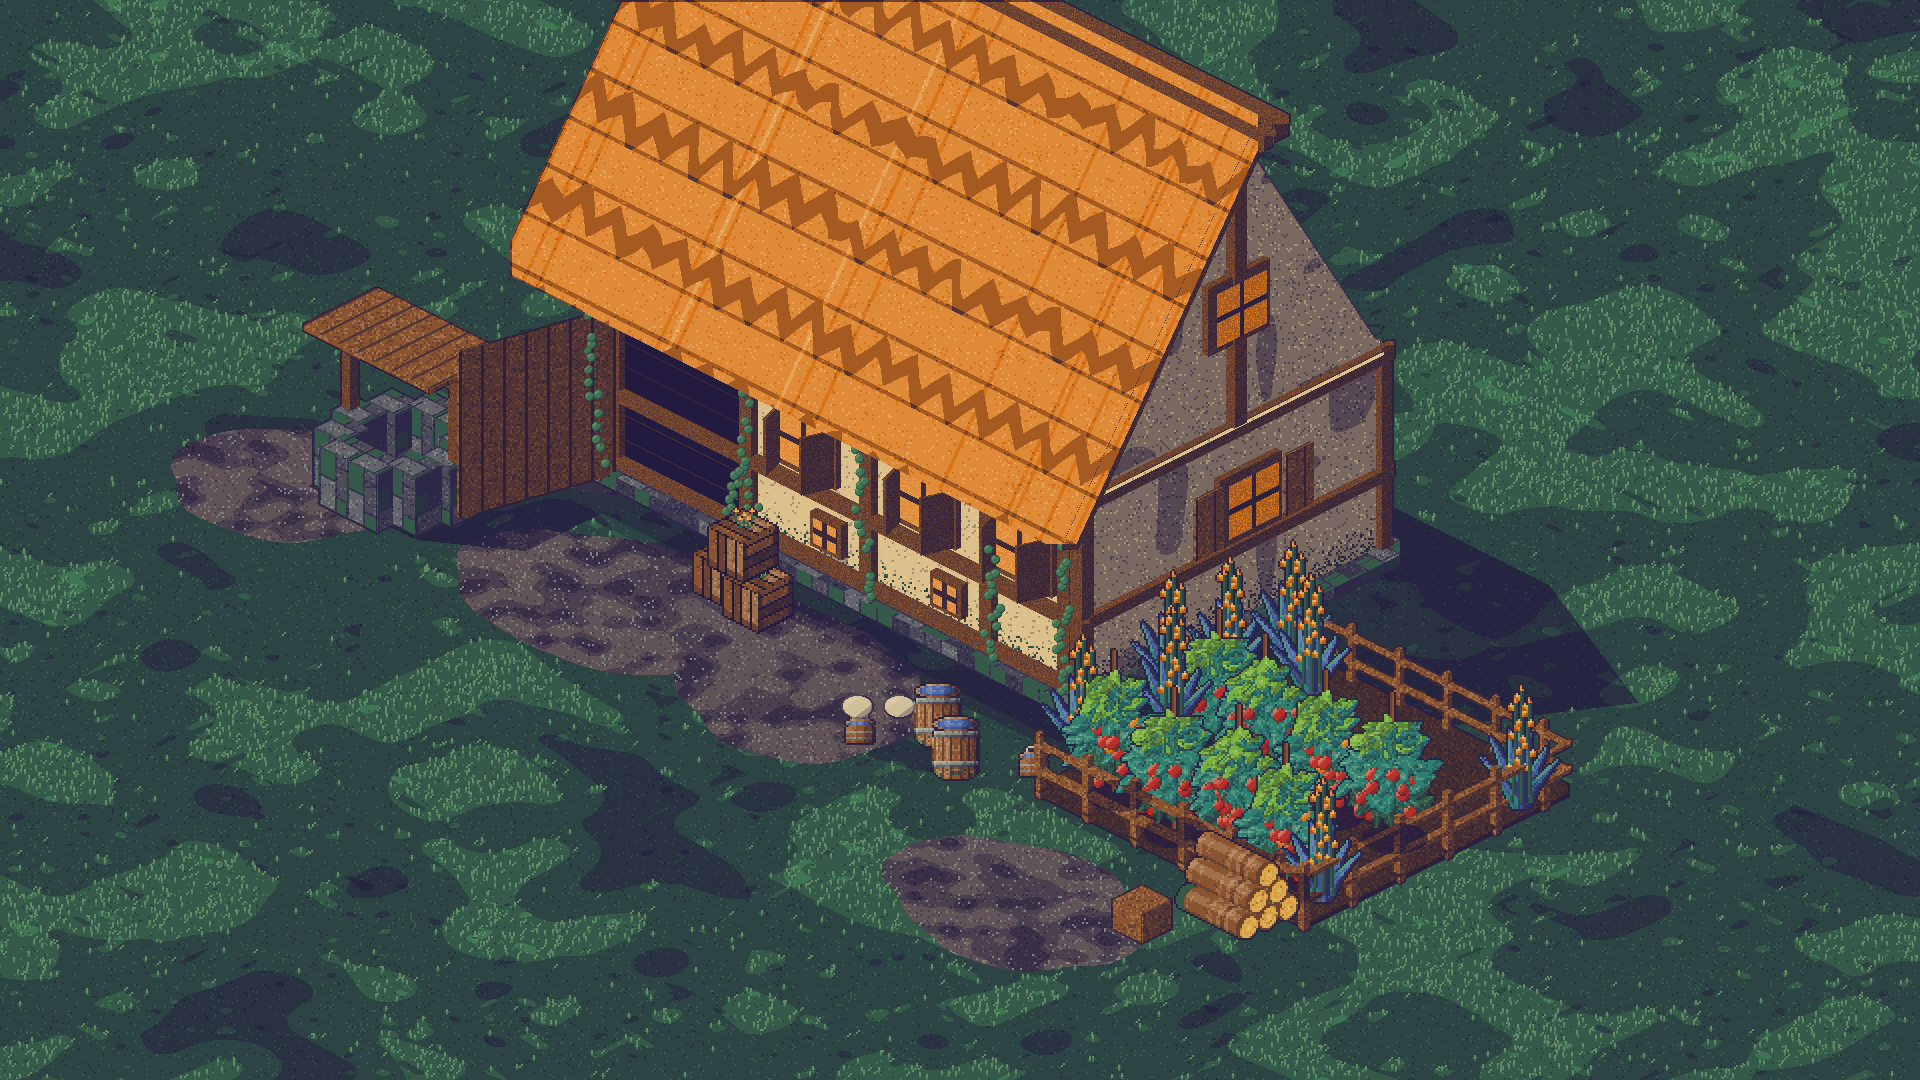
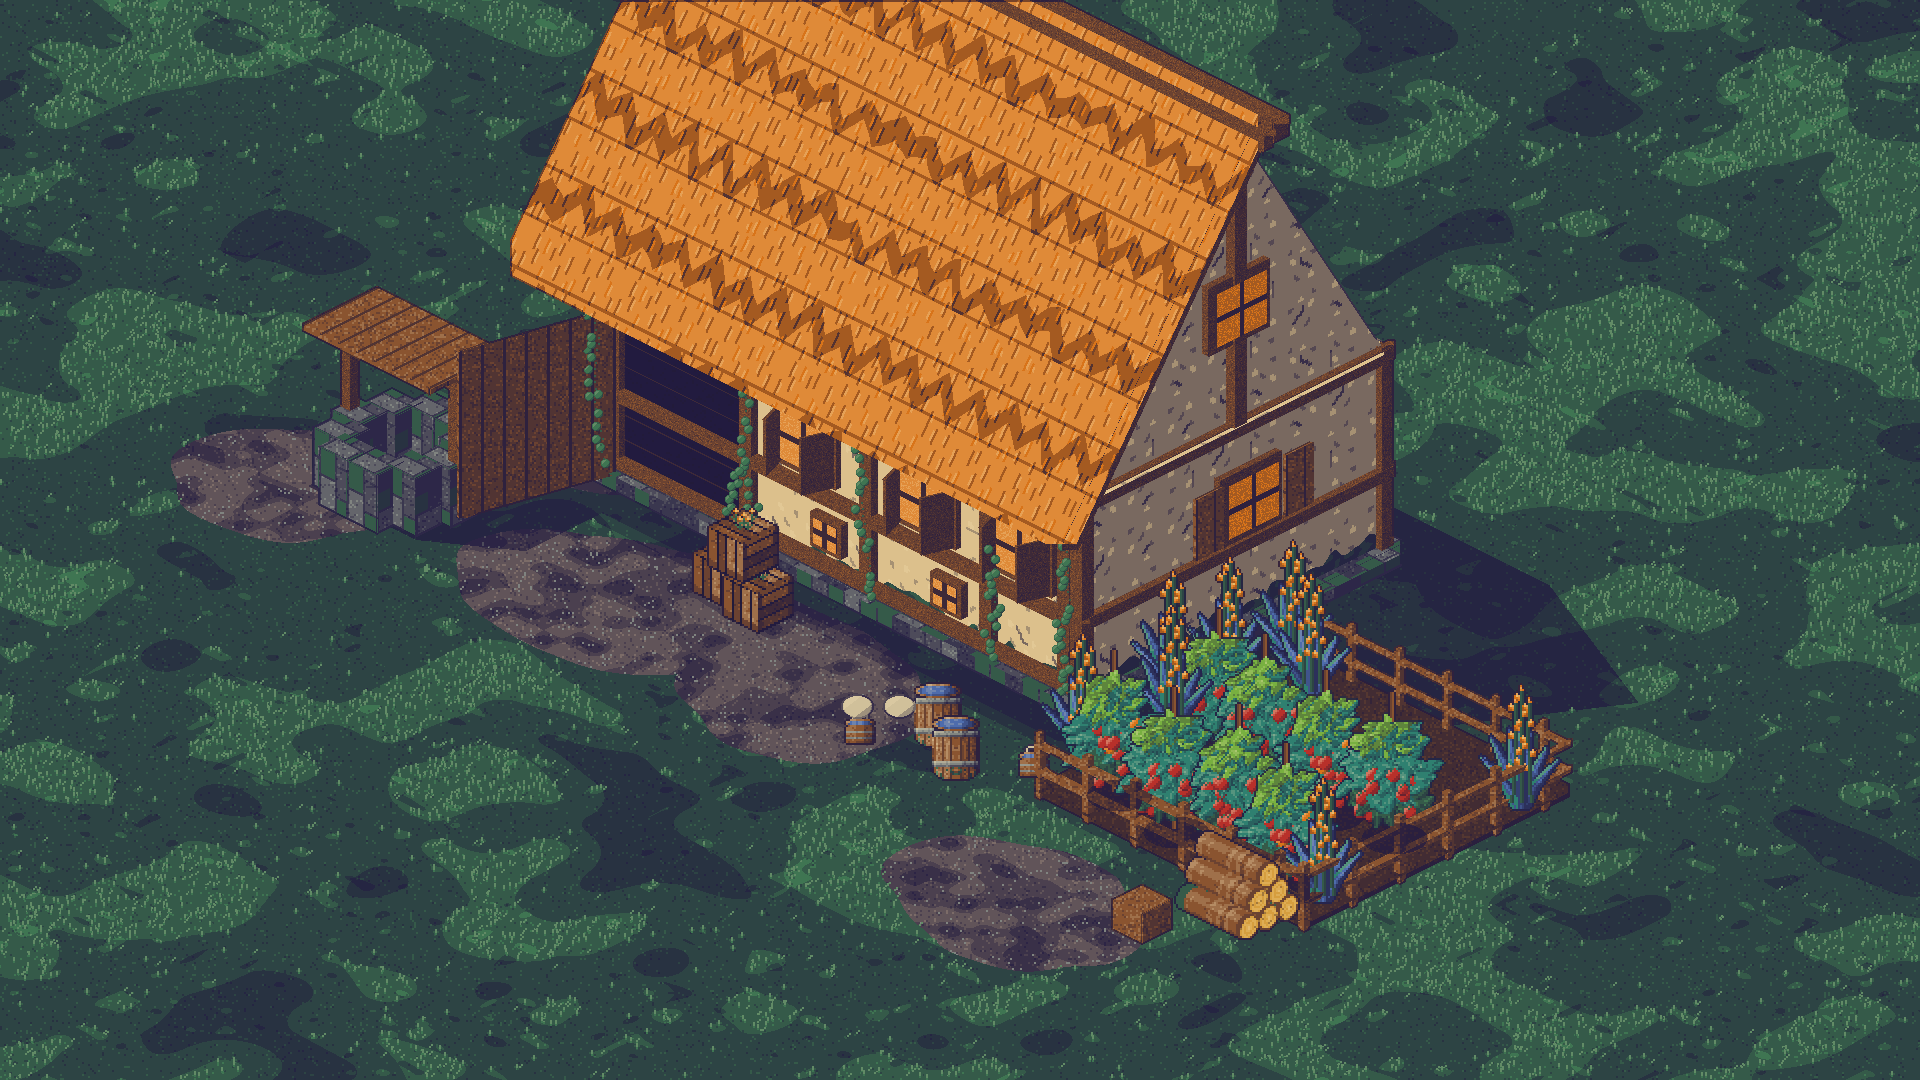
壁と屋根を手描きの模様タイルに変更（乱数の粒をやめる）

Changed region(s): [[0.25, 0.0, 0.7188, 0.5806], [0.5625, 0.5806, 0.5938, 0.6417]]

diff --git a/games/farmhouse/pixel/iso.py b/games/farmhouse/pixel/iso.py
@@ -107,7 +107,30 @@ def T(f, base, spk=None):
         return np.full(x.shape, fi, np.int8), s
     return t
 
-def plaster(x, y, z, u, v, px, py):
+
+# ---- 手描きの模様タイル（tiles.py）を読んで、面に並べる
+def load_tiles(prefix, n):
+    arrs = []
+    for i in range(n):
+        code = pxl.build(os.path.join(HERE, "sprites", f"{prefix}{i}.pxl"))[0]
+        f = np.vectorize(lambda t: FI[t[0]])(code).astype(np.int8); s_ = np.vectorize(lambda t: int(t[1]))(code).astype(np.int8)
+        arrs.append((f, s_))
+    return arrs
+ART = A / max(1, S // 2) / 1.0                                    # 1mあたりの絵のドット数（1ドット=S//2 のドット）
+
+def tile_lookup(tiles, u, v, seed):
+    th, tw = tiles[0][0].shape
+    ix = np.floor(u * ART).astype(np.int64); iy = np.floor(v * ART).astype(np.int64)
+    cx, cy = ix // tw, iy // th
+    var = (h2(cx, cy, seed) * len(tiles)).astype(np.int64) % len(tiles)
+    flip = h2(cx, cy, seed + 7) > .5
+    lx = np.where(flip, tw - 1 - (ix % tw), ix % tw); ly = iy % th
+    F = np.stack([t[0] for t in tiles]); Sh = np.stack([t[1] for t in tiles])
+    return F[var, ly, lx], Sh[var, ly, lx].astype(np.int16)
+
+PLASTER_T = THATCH_T = None
+
+def plaster_old(x, y, z, u, v, px, py):
     s = np.full(x.shape, 4, np.int8); r = h2(px >> 1, py >> 1, 1)
     s = s + (r > .94).astype(np.int8) - (r < .07).astype(np.int8)
     bl = vnoise(u * 1.3, v * 1.3, 5); s = s - (bl > .72).astype(np.int8)
@@ -115,6 +138,16 @@ def plaster(x, y, z, u, v, px, py):
     gr = (z < .75) & (h2(px >> 1, py >> 1, 2) < (1 - z / .75) * .7)           # 足もとの苔と泥
     f = np.where(gr, FI['E'], f); s = np.where(gr, 2 + (h2(px >> 1, py >> 1, 6) > .6), s)
     return f, s.astype(np.int8)
+
+def plaster(x, y, z, u, v, px, py):
+    global PLASTER_T
+    if PLASTER_T is None: PLASTER_T = load_tiles("tile_plaster", 3)
+    f, s = tile_lookup(PLASTER_T, u, v, 31)
+    # 足もとの苔：ぼかした模様の形で（点ではなく、かたまりで）
+    base = .32 + .28 * vnoise(u * 5.0, v * 5.0, 33)
+    moss = z < base
+    f = np.where(moss, FI['E'], f); s = np.where(moss, 2 + (z < base - .12) * 0 + (vnoise(u * 12, v * 12, 34) > .6), s)
+    return f.astype(np.int8), np.clip(s, 0, 7).astype(np.int8)
 
 def beam(x, y, z, u, v, px, py):
     r = h2(px, py, 4); s = np.full(x.shape, 3, np.int8) + (r > .8) - (r < .12)
@@ -128,16 +161,16 @@ def doorwood(x, y, z, u, v, px, py):
 
 def thatch(dark=False):
     def t(x, y, z, u, v, px, py):
+        global THATCH_T
+        if THATCH_T is None: THATCH_T = load_tiles("tile_thatch", 3)
+        f, s = tile_lookup(THATCH_T, u, v, 41)
         h = .62; k = np.floor(v / h); fr = v - k * h
         tooth = (np.abs(((u / .55) % 1) - .5) * 2 * .30 + (vnoise(u * 3.2, k, 31) - .5) * .22)
         band = (k % 2 == 1) & (fr > tooth + .02) & (fr < tooth + .30 + (vnoise(u * 2.1, k + 9, 32) - .5) * .12)
-        s = np.where(band, 2, 4).astype(np.int16)
-        st = h2(np.floor(u * 18), 0, 9); s = np.where(band, s, s - (st < .06) + (st > .96))
-        r = h2(px >> 1, py >> 1, 10); s = np.where(band, s, s - (r < .05) + (r > .95))
-        s = np.where(fr < .05, s - 2, s)
-        f = np.full(x.shape, FI['H'], np.int8)
+        s = np.where(band, s - 2, s)
+        s = np.where(fr < .04, s - 2, s)                                   # 段のさかい目の線
         if dark: s = s - 2
-        return f, np.clip(s, 0, 7).astype(np.int8)
+        return f.astype(np.int8), np.clip(s, 0, 7).astype(np.int8)
     return t
 
 def stone(x, y, z, u, v, px, py):

diff --git a/games/farmhouse/pixel/tiles.py b/games/farmhouse/pixel/tiles.py
@@ -1,0 +1,55 @@
+"""
+壁と屋根の「手描きの模様タイル」を作る。乱数の点ではなく、かたまりと線を1つずつ置いて描く。
+python tiles.py → sprites/tile_plaster{0,1,2}.pxl, tile_thatch{0,1,2}.pxl（と確認用の絵）
+タイルは、上下左右につながっても、ふちに模様がかからないように描く。
+"""
+import os, sys
+HERE = os.path.dirname(os.path.abspath(__file__)); SP = os.path.join(HERE, "sprites")
+sys.path.insert(0, HERE)
+import numpy as np
+from PIL import Image
+import pxl
+
+def tile(name, w, h, base, feats):
+    g = [[base] * w for _ in range(h)]
+    for tok, ox, oy, pts in feats:
+        for dx, dy in pts:
+            x, y = ox + dx, oy + dy
+            if 0 <= x < w and 0 <= y < h: g[y][x] = tok
+    p = os.path.join(SP, name + ".pxl")
+    with open(p, "w") as f:
+        f.write(f"# 手描きタイル {name}\n@size {w} {h}\n")
+        for r in g: f.write(" ".join(r) + "\n")
+    code, img, pal = pxl.build(p)
+    big = np.tile(img, (3, 3, 1)); Image.fromarray(big).resize((big.shape[1] * 6, big.shape[0] * 6), Image.NEAREST).save(os.path.join(SP, name + "_x3.png"))
+    return p
+
+def line(pts): return pts
+B1 = [(0, 0), (1, 0), (2, 0), (0, 1), (1, 1), (2, 1), (1, 2)]
+B2 = [(0, 0), (1, 0), (0, 1), (1, 1), (2, 1), (1, 2), (2, 2)]
+B3 = [(0, 0), (1, 0), (2, 0), (1, 1)]
+D1 = [(0, 0), (1, 0), (1, 1), (2, 1), (2, 2)]
+D2 = [(0, 0), (1, 0), (0, 1), (1, 1), (2, 1)]
+D3 = [(0, 0), (1, 0), (0, 1)]
+CRACK = [(0, 0), (1, 0), (1, 1), (2, 1), (2, 2), (3, 2), (4, 2), (4, 3), (5, 3), (5, 4), (5, 5)]
+STAIN = [(0, i) for i in range(7)]
+
+# ---- しっくい（20×20）：明るいかたまり・暗いかたまり・ひび・しみ
+tile("tile_plaster0", 20, 20, "L4", [("L5", 4, 3, B1), ("L5", 13, 11, B2), ("L5", 8, 15, B3), ("L3", 11, 4, D1), ("L3", 3, 12, D2), ("L3", 15, 16, D3),
+                                     ("L2", 5, 7, CRACK), ("L3", 6, 8, [(0, 0)])])
+tile("tile_plaster1", 20, 20, "L4", [("L5", 12, 3, B2), ("L5", 3, 11, B1), ("L5", 14, 15, B3), ("L3", 4, 4, D2), ("L3", 11, 9, D1), ("L3", 7, 16, D3),
+                                     ("L3", 15, 2, STAIN), ("L2", 15, 8, [(0, 0)])])
+tile("tile_plaster2", 20, 20, "L4", [("L5", 3, 8, B2), ("L5", 11, 2, B3), ("L5", 12, 14, B1), ("L3", 8, 11, D1), ("L3", 14, 7, D3), ("L3", 3, 16, D2),
+                                     ("L2", 10, 5, [(0, 0), (1, 0), (1, 1), (2, 1), (2, 2), (3, 2)])])
+
+# ---- わら（16×16）：縦の筋（斜面を下る向き）。暗い筋と、そのとなりの明るい筋
+def strokes(spec):
+    f = []
+    for (x, y0, y1, dark, light) in spec:
+        f.append(("H2" if dark else "H3", x, y0, [(0, i) for i in range(y1 - y0 + 1)]))
+        if light: f.append(("H5", x + 1, y0 + 1, [(0, i) for i in range(max(1, y1 - y0 - 1))]))
+    return f
+tile("tile_thatch0", 16, 16, "H4", strokes([(2, 1, 6, 1, 1), (7, 4, 9, 1, 1), (12, 0, 4, 0, 1), (5, 9, 14, 1, 1), (10, 9, 14, 0, 1), (14, 8, 12, 1, 0)]))
+tile("tile_thatch1", 16, 16, "H4", strokes([(3, 0, 5, 0, 1), (8, 6, 12, 1, 1), (12, 2, 7, 1, 1), (1, 9, 14, 1, 0), (6, 0, 3, 0, 1), (14, 11, 15, 1, 1)]))
+tile("tile_thatch2", 16, 16, "H4", strokes([(1, 3, 8, 1, 1), (6, 0, 4, 1, 1), (11, 5, 10, 0, 1), (4, 10, 15, 1, 1), (9, 11, 15, 1, 0), (14, 1, 5, 1, 1)]))
+print("done")

diff --git a/games/farmhouse/pixel/README.md b/games/farmhouse/pixel/README.md
@@ -30,4 +30,4 @@
 4. 小物は1つずつ文字のマス目で描く。大きな面の模様は、手で描いた小さなタイル（16×16など）を並べる
 5. 色は `palette.json` の系統×明るさだけを使う。足りない色が見つかったら、先にパレットへ足す（見本と比べて確認）
 6. 渡す前に、拡大して見直す。見本があるときは、同じ場所を同じ大きさで切り抜いて並べて比べる
-※ 3〜5 のうち、`iso.py` の壁・屋根・地面の模様は、まだ乱数のまま。直すのはこれから
+※ 壁（しっくい）と屋根（わら）は、手描きタイル（`tiles.py`）に変更済み。木・石・地面の模様と、面のふちの点線は、まだ直していない
